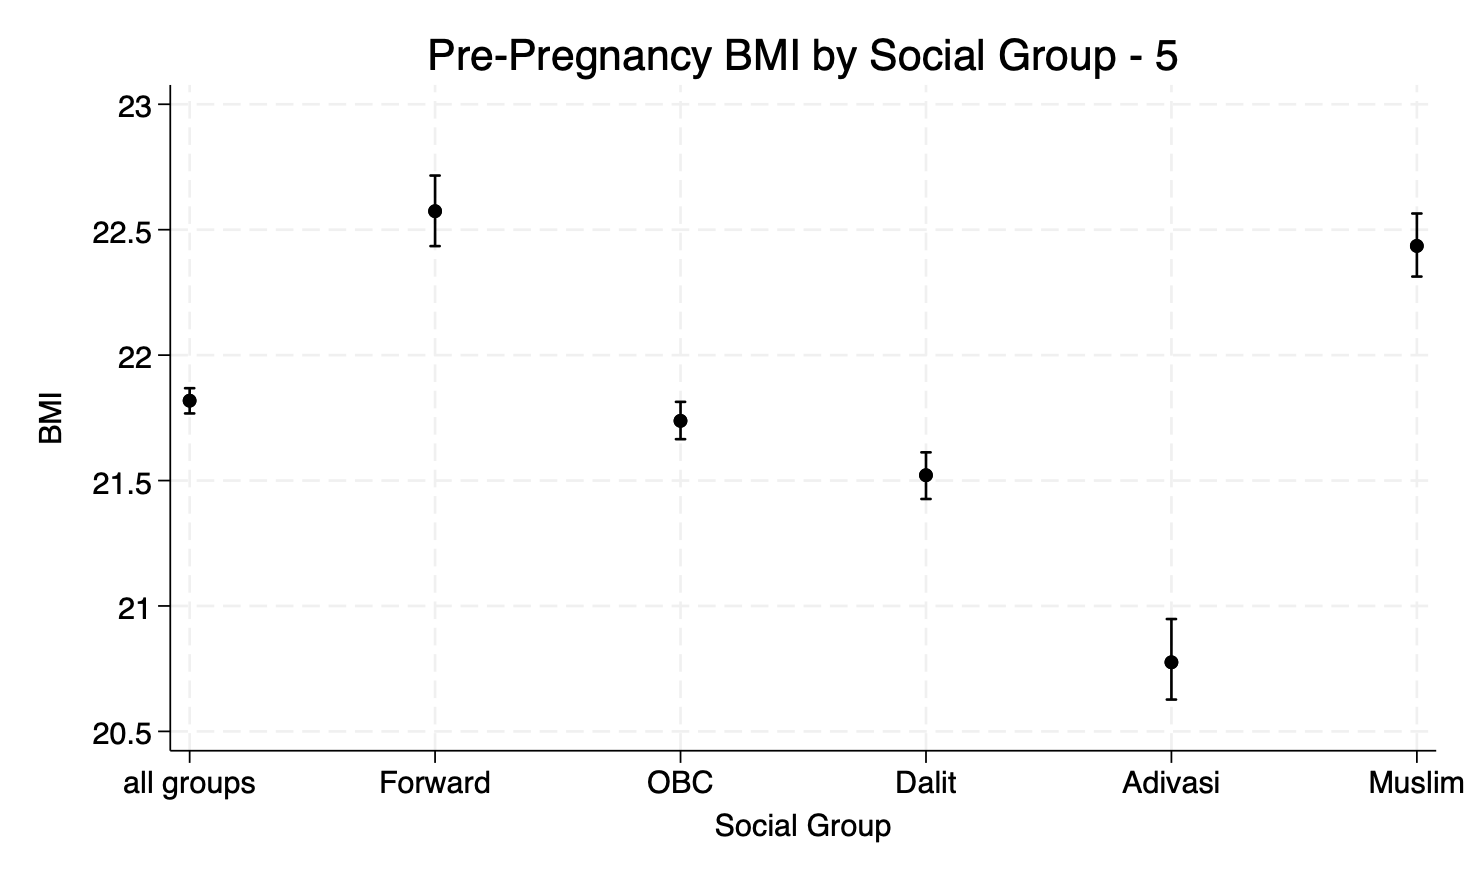
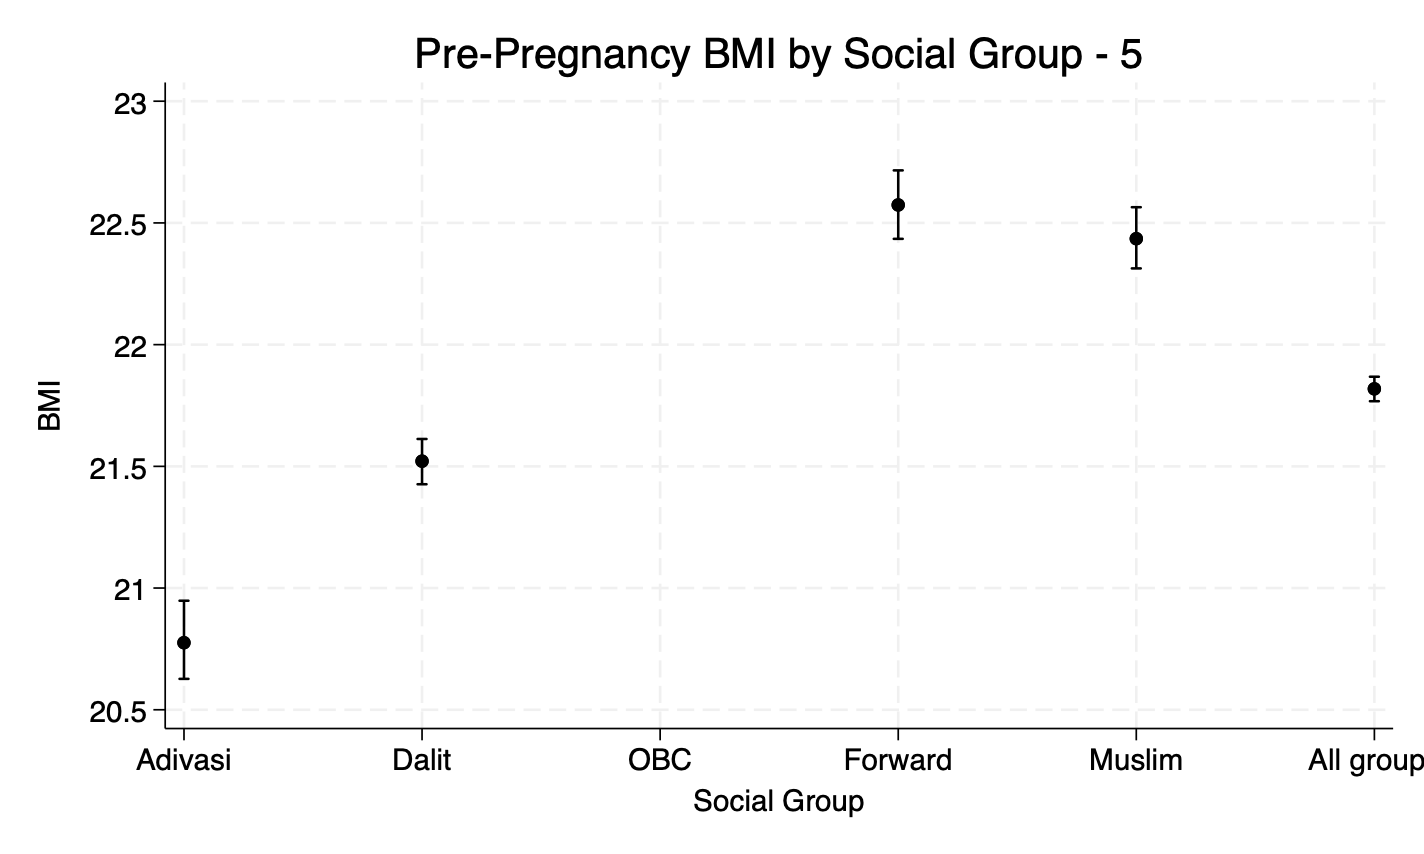
fixed

diff --git a/tables/predictor_regression.tex b/tables/predictor_regression.tex
@@ -6,71 +6,71 @@
 \midrule
 \textbf{Binary predictors of pregnancy and underweight}&                     &                     &                     &                     &                     &                     \\
 \addlinespace
-Uses modern contraception&       -0.08\sym{***}&       -0.07\sym{***}&       -0.06\sym{***}&       -0.08\sym{***}&       -0.05\sym{***}&       -0.07\sym{***}\\
-                    &      (0.00)         &      (0.00)         &      (0.00)         &      (0.00)         &      (0.00)         &      (0.00)         \\
+Uses modern contraception&      -.0752\sym{***}&      -.0727\sym{***}&      -.0641\sym{***}&      -.0782\sym{***}&      -.0512\sym{***}&      -.0671\sym{***}\\
+                    &    (.00308)         &    (.00191)         &    (.00144)         &    (.00259)         &    (.00184)         &   (.000907)         \\
 \addlinespace
-None or incomplete primary education&       -0.01\sym{***}&        0.00         &        0.00\sym{***}&        0.00         &       -0.00         &        0.00\sym{*}  \\
-                    &      (0.00)         &      (0.00)         &      (0.00)         &      (0.00)         &      (0.00)         &      (0.00)         \\
+None or incomplete primary education&     -.00853\sym{***}&      .00111         &      .00363\sym{***}&      .00155         &    -.000858         &      .00157\sym{*}  \\
+                    &    (.00269)         &    (.00178)         &    (.00124)         &    (.00273)         &    (.00166)         &   (.000808)         \\
 \addlinespace
-Rural resident      &        0.01\sym{*}  &        0.01\sym{***}&        0.00\sym{*}  &        0.01\sym{*}  &        0.01\sym{***}&        0.00\sym{***}\\
-                    &      (0.01)         &      (0.00)         &      (0.00)         &      (0.00)         &      (0.00)         &      (0.00)         \\
+Rural resident      &       .0123\sym{*}  &      .00582\sym{***}&      .00299\sym{*}  &       .0056\sym{*}  &      .00721\sym{***}&      .00486\sym{***}\\
+                    &    (.00707)         &    (.00221)         &    (.00157)         &    (.00305)         &    (.00202)         &    (.00101)         \\
 \addlinespace
-Has boy child       &       -0.02\sym{***}&       -0.02\sym{***}&       -0.03\sym{***}&       -0.01\sym{***}&       -0.02\sym{***}&       -0.02\sym{***}\\
-                    &      (0.00)         &      (0.00)         &      (0.00)         &      (0.00)         &      (0.00)         &      (0.00)         \\
+Has boy child       &      -.0219\sym{***}&       -.016\sym{***}&      -.0252\sym{***}&      -.0132\sym{***}&      -.0208\sym{***}&      -.0206\sym{***}\\
+                    &    (.00475)         &    (.00273)         &    (.00206)         &    (.00427)         &    (.00245)         &    (.00128)         \\
 \addlinespace
 \textbf{Age categories}&                     &                     &                     &                     &                     &                     \\
 \addlinespace
-20–24               &       -0.01         &        0.00         &        0.01         &        0.02         &        0.01         &        0.01\sym{*}  \\
-                    &      (0.01)         &      (0.01)         &      (0.01)         &      (0.01)         &      (0.01)         &      (0.00)         \\
+20–24               &      -.0105         &      .00457         &       .0122         &       .0168         &       .0078         &      .00856\sym{*}  \\
+                    &     (.0118)         &    (.00964)         &     (.0079)         &      (.012)         &     (.0133)         &    (.00467)         \\
 \addlinespace
-25–29               &       -0.04\sym{***}&       -0.03\sym{***}&       -0.03\sym{***}&       -0.02\sym{**} &       -0.02\sym{*}  &       -0.03\sym{***}\\
-                    &      (0.01)         &      (0.01)         &      (0.01)         &      (0.01)         &      (0.01)         &      (0.00)         \\
+25–29               &      -.0371\sym{***}&      -.0327\sym{***}&      -.0294\sym{***}&      -.0244\sym{**} &      -.0242\sym{*}  &      -.0297\sym{***}\\
+                    &     (.0119)         &     (.0097)         &    (.00787)         &     (.0119)         &     (.0132)         &    (.00465)         \\
 \addlinespace
-30–34               &       -0.08\sym{***}&       -0.07\sym{***}&       -0.07\sym{***}&       -0.07\sym{***}&       -0.06\sym{***}&       -0.07\sym{***}\\
-                    &      (0.01)         &      (0.01)         &      (0.01)         &      (0.01)         &      (0.01)         &      (0.00)         \\
+30–34               &      -.0769\sym{***}&      -.0696\sym{***}&      -.0706\sym{***}&      -.0748\sym{***}&      -.0626\sym{***}&      -.0709\sym{***}\\
+                    &     (.0118)         &    (.00964)         &    (.00779)         &     (.0118)         &     (.0132)         &    (.00463)         \\
 \addlinespace
 \textbf{Parity \& time since last live birth categories}&                     &                     &                     &                     &                     &                     \\
 \addlinespace
-1 birth, <2y spacing&       -0.09\sym{***}&       -0.08\sym{***}&       -0.10\sym{***}&       -0.15\sym{***}&       -0.11\sym{***}&       -0.10\sym{***}\\
-                    &      (0.01)         &      (0.01)         &      (0.01)         &      (0.01)         &      (0.01)         &      (0.00)         \\
+1 birth, <2y spacing&      -.0919\sym{***}&      -.0769\sym{***}&      -.0986\sym{***}&       -.145\sym{***}&        -.11\sym{***}&       -.101\sym{***}\\
+                    &    (.00935)         &     (.0074)         &    (.00575)         &     (.0103)         &    (.00868)         &    (.00351)         \\
 \addlinespace
-1 birth, 2–3y spacing&        0.01         &       -0.03\sym{***}&       -0.04\sym{***}&       -0.09\sym{***}&       -0.08\sym{***}&       -0.05\sym{***}\\
-                    &      (0.02)         &      (0.01)         &      (0.01)         &      (0.02)         &      (0.01)         &      (0.01)         \\
+1 birth, 2–3y spacing&      .00887         &      -.0339\sym{***}&      -.0407\sym{***}&      -.0866\sym{***}&      -.0793\sym{***}&      -.0483\sym{***}\\
+                    &     (.0161)         &     (.0113)         &    (.00869)         &     (.0151)         &      (.011)         &    (.00516)         \\
 \addlinespace
-1 birth, 3+y spacing&       -0.05\sym{***}&       -0.08\sym{***}&       -0.08\sym{***}&       -0.09\sym{***}&       -0.10\sym{***}&       -0.09\sym{***}\\
-                    &      (0.01)         &      (0.01)         &      (0.01)         &      (0.01)         &      (0.01)         &      (0.00)         \\
+1 birth, 3+y spacing&      -.0524\sym{***}&      -.0843\sym{***}&      -.0847\sym{***}&      -.0898\sym{***}&      -.0982\sym{***}&      -.0852\sym{***}\\
+                    &     (.0114)         &    (.00716)         &    (.00536)         &     (.0107)         &    (.00787)         &    (.00337)         \\
 \addlinespace
-2 births, <2y spacing&       -0.10\sym{***}&       -0.11\sym{***}&       -0.12\sym{***}&       -0.15\sym{***}&       -0.13\sym{***}&       -0.12\sym{***}\\
-                    &      (0.01)         &      (0.01)         &      (0.01)         &      (0.01)         &      (0.01)         &      (0.00)         \\
+2 births, <2y spacing&       -.101\sym{***}&       -.109\sym{***}&       -.123\sym{***}&       -.155\sym{***}&        -.13\sym{***}&       -.122\sym{***}\\
+                    &    (.00904)         &    (.00707)         &    (.00536)         &     (.0101)         &    (.00811)         &    (.00333)         \\
 \addlinespace
-2 births, 2–3y spacing&       -0.06\sym{***}&       -0.08\sym{***}&       -0.10\sym{***}&       -0.10\sym{***}&       -0.11\sym{***}&       -0.09\sym{***}\\
-                    &      (0.01)         &      (0.01)         &      (0.01)         &      (0.01)         &      (0.01)         &      (0.00)         \\
+2 births, 2–3y spacing&      -.0603\sym{***}&      -.0835\sym{***}&      -.0975\sym{***}&       -.095\sym{***}&       -.114\sym{***}&      -.0924\sym{***}\\
+                    &      (.011)         &    (.00874)         &    (.00615)         &     (.0124)         &    (.00898)         &    (.00392)         \\
 \addlinespace
-2 births, 3+y spacing&       -0.07\sym{***}&       -0.10\sym{***}&       -0.10\sym{***}&       -0.11\sym{***}&       -0.11\sym{***}&       -0.10\sym{***}\\
-                    &      (0.01)         &      (0.01)         &      (0.00)         &      (0.01)         &      (0.01)         &      (0.00)         \\
+2 births, 3+y spacing&      -.0704\sym{***}&      -.0953\sym{***}&      -.0991\sym{***}&       -.109\sym{***}&       -.107\sym{***}&      -.0977\sym{***}\\
+                    &     (.0085)         &    (.00649)         &    (.00494)         &    (.00975)         &    (.00753)         &    (.00308)         \\
 \addlinespace
-3+ births, <2y spacing&       -0.08\sym{***}&       -0.10\sym{***}&       -0.11\sym{***}&       -0.11\sym{***}&       -0.11\sym{***}&       -0.10\sym{***}\\
-                    &      (0.01)         &      (0.01)         &      (0.01)         &      (0.01)         &      (0.01)         &      (0.00)         \\
+3+ births, <2y spacing&       -.077\sym{***}&      -.0981\sym{***}&       -.107\sym{***}&       -.114\sym{***}&       -.111\sym{***}&       -.101\sym{***}\\
+                    &    (.00914)         &    (.00723)         &    (.00565)         &      (.011)         &    (.00898)         &    (.00358)         \\
 \addlinespace
-3+ births, 2–3y spacing&       -0.05\sym{***}&       -0.07\sym{***}&       -0.09\sym{***}&       -0.10\sym{***}&       -0.10\sym{***}&       -0.08\sym{***}\\
-                    &      (0.01)         &      (0.01)         &      (0.01)         &      (0.01)         &      (0.01)         &      (0.00)         \\
+3+ births, 2–3y spacing&      -.0529\sym{***}&      -.0731\sym{***}&       -.086\sym{***}&         -.1\sym{***}&      -.0994\sym{***}&      -.0815\sym{***}\\
+                    &    (.00994)         &    (.00817)         &    (.00641)         &     (.0113)         &     (.0101)         &    (.00389)         \\
 \addlinespace
-3+ births, 3+y spacing&       -0.07\sym{***}&       -0.09\sym{***}&       -0.10\sym{***}&       -0.12\sym{***}&       -0.10\sym{***}&       -0.10\sym{***}\\
-                    &      (0.01)         &      (0.01)         &      (0.00)         &      (0.01)         &      (0.01)         &      (0.00)         \\
+3+ births, 3+y spacing&        -.07\sym{***}&      -.0947\sym{***}&      -.0988\sym{***}&       -.121\sym{***}&       -.104\sym{***}&      -.0979\sym{***}\\
+                    &    (.00828)         &    (.00655)         &    (.00491)         &    (.00943)         &    (.00756)         &    (.00308)         \\
 \addlinespace
 \textbf{Wealth categories}&                     &                     &                     &                     &                     &                     \\
 \addlinespace
-2nd quartile        &       -0.00         &       -0.01\sym{***}&       -0.01\sym{***}&       -0.01\sym{**} &       -0.00         &       -0.01\sym{***}\\
-                    &      (0.00)         &      (0.00)         &      (0.00)         &      (0.00)         &      (0.00)         &      (0.00)         \\
+2nd quartile        &     -.00235         &      -.0077\sym{***}&     -.00659\sym{***}&     -.00774\sym{**} &     -.00191         &     -.00566\sym{***}\\
+                    &    (.00262)         &    (.00222)         &     (.0018)         &    (.00391)         &    (.00309)         &    (.00112)         \\
 \addlinespace
-3rd quartile        &        0.00         &       -0.01\sym{**} &       -0.01\sym{***}&       -0.00         &        0.00         &       -0.00\sym{***}\\
-                    &      (0.00)         &      (0.00)         &      (0.00)         &      (0.00)         &      (0.00)         &      (0.00)         \\
+3rd quartile        &      .00293         &     -.00584\sym{**} &     -.00863\sym{***}&     -.00146         &      .00295         &     -.00433\sym{***}\\
+                    &    (.00353)         &    (.00253)         &    (.00183)         &    (.00405)         &    (.00304)         &    (.00117)         \\
 \addlinespace
-4th quartile        &        0.01         &       -0.01\sym{***}&       -0.01\sym{***}&       -0.00         &        0.00         &       -0.00\sym{***}\\
-                    &      (0.01)         &      (0.00)         &      (0.00)         &      (0.00)         &      (0.00)         &      (0.00)         \\
+4th quartile        &      .00669         &     -.00929\sym{***}&     -.00613\sym{***}&     -.00272         &      .00466         &     -.00386\sym{***}\\
+                    &     (.0108)         &     (.0028)         &    (.00214)         &    (.00422)         &    (.00319)         &    (.00132)         \\
 \addlinespace
-Constant            &        0.22\sym{***}&        0.24\sym{***}&        0.25\sym{***}&        0.26\sym{***}&        0.22\sym{***}&        0.24\sym{***}\\
-                    &      (0.01)         &      (0.01)         &      (0.01)         &      (0.01)         &      (0.01)         &      (0.00)         \\
+Constant            &        .223\sym{***}&        .238\sym{***}&        .245\sym{***}&        .264\sym{***}&         .22\sym{***}&         .24\sym{***}\\
+                    &     (.0142)         &       (.01)         &    (.00796)         &     (.0123)         &     (.0136)         &    (.00474)         \\
 \midrule
 Observations        &       91212         &       97955         &      170788         &       56419         &       80708         &      498842         \\
 \bottomrule

diff --git a/tables/sumstats.tex b/tables/sumstats.tex
@@ -2,34 +2,34 @@
 \toprule
 & \multicolumn{6}{c}{Pregnant women (3+ months)} & \multicolumn{6}{c}{Nonpregnant women} \\\\
 \cmidrule(lr){2-7} \cmidrule(lr){8-13}
-Social Group & Adivasi & Dalit & OBC & Muslim & Forward & All five social groups & Adivasi & Dalit & OBC & Muslim & Forward & All five social groups \\\\
+Social Group & Adivasi & Dalit & OBC & Forward & Muslim & All five social groups & Adivasi & Dalit & OBC & Muslim & Forward & All five social groups \\\\
 \midrule
 \textbf{Binary Predictors of Pregnancy and Underweight}&.&.&.&.&.&.&.&.&.&.&.&.\\
-not using modern contraception&0.07 (0.01)&0.06 (0.00)&0.07 (0.00)&0.05 (0.01)&0.08 (0.01)&0.07 (0.00)&0.67 (0.00)&0.67 (0.00)&0.66 (0.00)&0.62 (0.00)&0.58 (0.00)&0.65 (0.00)\\
-no education or incomplete primary&0.12 (0.01)&0.23 (0.01)&0.31 (0.01)&0.36 (0.01)&0.35 (0.01)&0.27 (0.00)&0.25 (0.00)&0.41 (0.00)&0.50 (0.00)&0.58 (0.00)&0.48 (0.00)&0.43 (0.00)\\
-rural resident&0.64 (0.01)&0.76 (0.01)&0.79 (0.01)&0.89 (0.01)&0.65 (0.01)&0.74 (0.00)&0.57 (0.01)&0.71 (0.00)&0.72 (0.00)&0.87 (0.00)&0.59 (0.01)&0.69 (0.00)\\
-does not have boy child&0.23 (0.01)&0.29 (0.01)&0.33 (0.01)&0.34 (0.01)&0.41 (0.01)&0.32 (0.00)&0.75 (0.00)&0.77 (0.00)&0.77 (0.00)&0.76 (0.00)&0.77 (0.00)&0.77 (0.00)\\
+not using modern contraception&0.07 (0.01)&0.06 (0.00)&0.07 (0.00)&0.08 (0.01)&0.05 (0.01)&0.07 (0.00)&0.67 (0.00)&0.67 (0.00)&0.66 (0.00)&0.58 (0.00)&0.62 (0.00)&0.65 (0.00)\\
+no education or incomplete primary&0.12 (0.01)&0.23 (0.01)&0.31 (0.01)&0.35 (0.01)&0.36 (0.01)&0.27 (0.00)&0.25 (0.00)&0.41 (0.00)&0.50 (0.00)&0.48 (0.00)&0.58 (0.00)&0.43 (0.00)\\
+rural resident&0.64 (0.01)&0.76 (0.01)&0.79 (0.01)&0.65 (0.01)&0.89 (0.01)&0.74 (0.00)&0.57 (0.01)&0.71 (0.00)&0.72 (0.00)&0.59 (0.01)&0.87 (0.00)&0.69 (0.00)\\
+does not have boy child&0.23 (0.01)&0.29 (0.01)&0.33 (0.01)&0.41 (0.01)&0.34 (0.01)&0.32 (0.00)&0.75 (0.00)&0.77 (0.00)&0.77 (0.00)&0.77 (0.00)&0.76 (0.00)&0.77 (0.00)\\
 \textbf{Age Categories}&.&.&.&.&.&.&.&.&.&.&.&.\\
-15 to 19&0.10 (0.01)&0.11 (0.00)&0.13 (0.01)&0.14 (0.01)&0.12 (0.01)&0.12 (0.00)&0.02 (0.00)&0.02 (0.00)&0.03 (0.00)&0.03 (0.00)&0.03 (0.00)&0.02 (0.00)\\
+15 to 19&0.10 (0.01)&0.11 (0.00)&0.13 (0.01)&0.12 (0.01)&0.14 (0.01)&0.12 (0.00)&0.02 (0.00)&0.02 (0.00)&0.03 (0.00)&0.03 (0.00)&0.03 (0.00)&0.02 (0.00)\\
 20 to 24&0.39 (0.01)&0.45 (0.01)&0.44 (0.01)&0.40 (0.01)&0.40 (0.01)&0.43 (0.00)&0.10 (0.00)&0.12 (0.00)&0.13 (0.00)&0.14 (0.00)&0.14 (0.00)&0.12 (0.00)\\
-25 to 29&0.35 (0.01)&0.31 (0.01)&0.29 (0.01)&0.30 (0.01)&0.29 (0.01)&0.31 (0.00)&0.18 (0.00)&0.19 (0.00)&0.19 (0.00)&0.20 (0.00)&0.20 (0.00)&0.19 (0.00)\\
-30 to 49&0.16 (0.01)&0.12 (0.00)&0.13 (0.01)&0.16 (0.02)&0.19 (0.01)&0.14 (0.00)&0.71 (0.00)&0.67 (0.00)&0.64 (0.00)&0.63 (0.00)&0.63 (0.00)&0.66 (0.00)\\
+25 to 29&0.35 (0.01)&0.31 (0.01)&0.29 (0.01)&0.29 (0.01)&0.30 (0.01)&0.31 (0.00)&0.18 (0.00)&0.19 (0.00)&0.19 (0.00)&0.20 (0.00)&0.20 (0.00)&0.19 (0.00)\\
+30 to 49&0.16 (0.01)&0.12 (0.00)&0.13 (0.01)&0.19 (0.01)&0.16 (0.02)&0.14 (0.00)&0.71 (0.00)&0.67 (0.00)&0.64 (0.00)&0.63 (0.00)&0.63 (0.00)&0.66 (0.00)\\
 \textbf{Categories for parity and spacing from last birth}&.&.&.&.&.&.&.&.&.&.&.&.\\
-No births&0.49 (0.01)&0.43 (0.01)&0.41 (0.01)&0.39 (0.01)&0.38 (0.01)&0.42 (0.00)&0.07 (0.00)&0.07 (0.00)&0.08 (0.00)&0.08 (0.00)&0.07 (0.00)&0.07 (0.00)\\
-1 birth, \textless{}2y spacing&0.13 (0.01)&0.16 (0.01)&0.16 (0.01)&0.13 (0.01)&0.09 (0.01)&0.14 (0.00)&0.06 (0.00)&0.06 (0.00)&0.06 (0.00)&0.07 (0.00)&0.07 (0.00)&0.06 (0.00)\\
-1 birth, 2–3y spacing&0.07 (0.01)&0.07 (0.00)&0.06 (0.00)&0.07 (0.01)&0.05 (0.00)&0.07 (0.00)&0.02 (0.00)&0.02 (0.00)&0.02 (0.00)&0.02 (0.00)&0.02 (0.00)&0.02 (0.00)\\
-1 birth, \textgreater{}3y spacing&0.17 (0.01)&0.12 (0.00)&0.10 (0.01)&0.12 (0.02)&0.12 (0.01)&0.12 (0.00)&0.15 (0.00)&0.09 (0.00)&0.08 (0.00)&0.08 (0.00)&0.08 (0.00)&0.10 (0.00)\\
-2 births, \textless{}2y spacing&0.04 (0.00)&0.07 (0.00)&0.08 (0.00)&0.06 (0.01)&0.06 (0.00)&0.06 (0.00)&0.05 (0.00)&0.06 (0.00)&0.06 (0.00)&0.06 (0.00)&0.06 (0.00)&0.06 (0.00)\\
-2 births, 2–3y spacing&0.02 (0.00)&0.03 (0.00)&0.03 (0.00)&0.03 (0.00)&0.04 (0.00)&0.03 (0.00)&0.02 (0.00)&0.03 (0.00)&0.03 (0.00)&0.02 (0.00)&0.03 (0.00)&0.03 (0.00)\\
-2 births, \textgreater{}3y spacing&0.04 (0.00)&0.04 (0.00)&0.04 (0.00)&0.07 (0.01)&0.10 (0.01)&0.05 (0.00)&0.36 (0.00)&0.31 (0.00)&0.25 (0.00)&0.23 (0.00)&0.20 (0.00)&0.28 (0.00)\\
-3+ births, \textless{}2y spacing&0.02 (0.00)&0.04 (0.00)&0.06 (0.00)&0.06 (0.01)&0.08 (0.01)&0.05 (0.00)&0.02 (0.00)&0.04 (0.00)&0.05 (0.00)&0.06 (0.00)&0.07 (0.00)&0.04 (0.00)\\
-3+ births, 2–3y spacing&0.01 (0.00)&0.02 (0.00)&0.03 (0.00)&0.03 (0.00)&0.03 (0.00)&0.02 (0.00)&0.01 (0.00)&0.02 (0.00)&0.02 (0.00)&0.02 (0.00)&0.03 (0.00)&0.02 (0.00)\\
-3+ births, \textgreater{}3y spacing&0.02 (0.00)&0.02 (0.00)&0.03 (0.00)&0.03 (0.00)&0.05 (0.01)&0.03 (0.00)&0.23 (0.00)&0.31 (0.00)&0.35 (0.00)&0.36 (0.00)&0.37 (0.00)&0.32 (0.00)\\
+No births&0.49 (0.01)&0.43 (0.01)&0.41 (0.01)&0.38 (0.01)&0.39 (0.01)&0.42 (0.00)&0.07 (0.00)&0.07 (0.00)&0.08 (0.00)&0.07 (0.00)&0.08 (0.00)&0.07 (0.00)\\
+1 birth, \textless{}2y spacing&0.13 (0.01)&0.16 (0.01)&0.16 (0.01)&0.09 (0.01)&0.13 (0.01)&0.14 (0.00)&0.06 (0.00)&0.06 (0.00)&0.06 (0.00)&0.07 (0.00)&0.07 (0.00)&0.06 (0.00)\\
+1 birth, 2–3y spacing&0.07 (0.01)&0.07 (0.00)&0.06 (0.00)&0.05 (0.00)&0.07 (0.01)&0.07 (0.00)&0.02 (0.00)&0.02 (0.00)&0.02 (0.00)&0.02 (0.00)&0.02 (0.00)&0.02 (0.00)\\
+1 birth, \textgreater{}3y spacing&0.17 (0.01)&0.12 (0.00)&0.10 (0.01)&0.12 (0.01)&0.12 (0.02)&0.12 (0.00)&0.15 (0.00)&0.09 (0.00)&0.08 (0.00)&0.08 (0.00)&0.08 (0.00)&0.10 (0.00)\\
+2 births, \textless{}2y spacing&0.04 (0.00)&0.07 (0.00)&0.08 (0.00)&0.06 (0.00)&0.06 (0.01)&0.06 (0.00)&0.05 (0.00)&0.06 (0.00)&0.06 (0.00)&0.06 (0.00)&0.06 (0.00)&0.06 (0.00)\\
+2 births, 2–3y spacing&0.02 (0.00)&0.03 (0.00)&0.03 (0.00)&0.04 (0.00)&0.03 (0.00)&0.03 (0.00)&0.02 (0.00)&0.03 (0.00)&0.03 (0.00)&0.03 (0.00)&0.02 (0.00)&0.03 (0.00)\\
+2 births, \textgreater{}3y spacing&0.04 (0.00)&0.04 (0.00)&0.04 (0.00)&0.10 (0.01)&0.07 (0.01)&0.05 (0.00)&0.36 (0.00)&0.31 (0.00)&0.25 (0.00)&0.20 (0.00)&0.23 (0.00)&0.28 (0.00)\\
+3+ births, \textless{}2y spacing&0.02 (0.00)&0.04 (0.00)&0.06 (0.00)&0.08 (0.01)&0.06 (0.01)&0.05 (0.00)&0.02 (0.00)&0.04 (0.00)&0.05 (0.00)&0.07 (0.00)&0.06 (0.00)&0.04 (0.00)\\
+3+ births, 2–3y spacing&0.01 (0.00)&0.02 (0.00)&0.03 (0.00)&0.03 (0.00)&0.03 (0.00)&0.02 (0.00)&0.01 (0.00)&0.02 (0.00)&0.02 (0.00)&0.03 (0.00)&0.02 (0.00)&0.02 (0.00)\\
+3+ births, \textgreater{}3y spacing&0.02 (0.00)&0.02 (0.00)&0.03 (0.00)&0.05 (0.01)&0.03 (0.00)&0.03 (0.00)&0.23 (0.00)&0.31 (0.00)&0.35 (0.00)&0.37 (0.00)&0.36 (0.00)&0.32 (0.00)\\
 \textbf{Wealth Categories}&.&.&.&.&.&.&.&.&.&.&.&.\\
-1st quartile&0.11 (0.01)&0.22 (0.01)&0.34 (0.01)&0.50 (0.01)&0.26 (0.01)&0.27 (0.00)&0.10 (0.00)&0.18 (0.00)&0.28 (0.00)&0.49 (0.01)&0.22 (0.00)&0.22 (0.00)\\
-2nd quartile&0.17 (0.01)&0.25 (0.01)&0.26 (0.01)&0.25 (0.01)&0.23 (0.01)&0.24 (0.00)&0.17 (0.00)&0.24 (0.00)&0.27 (0.00)&0.26 (0.00)&0.23 (0.00)&0.23 (0.00)\\
-3rd quartile&0.27 (0.01)&0.26 (0.01)&0.24 (0.01)&0.16 (0.01)&0.25 (0.01)&0.25 (0.00)&0.26 (0.00)&0.28 (0.00)&0.25 (0.00)&0.16 (0.00)&0.25 (0.00)&0.26 (0.00)\\
-4th quartile&0.44 (0.01)&0.27 (0.01)&0.16 (0.01)&0.09 (0.02)&0.27 (0.01)&0.25 (0.00)&0.47 (0.00)&0.30 (0.00)&0.20 (0.00)&0.10 (0.00)&0.31 (0.01)&0.29 (0.00)\\
-\textbf{Sample size}&3022&7482&4827&5135&3610&24178&77686&163306&93128&86077&52809&474664\\
+1st quartile&0.11 (0.01)&0.22 (0.01)&0.34 (0.01)&0.26 (0.01)&0.50 (0.01)&0.27 (0.00)&0.10 (0.00)&0.18 (0.00)&0.28 (0.00)&0.22 (0.00)&0.49 (0.01)&0.22 (0.00)\\
+2nd quartile&0.17 (0.01)&0.25 (0.01)&0.26 (0.01)&0.23 (0.01)&0.25 (0.01)&0.24 (0.00)&0.17 (0.00)&0.24 (0.00)&0.27 (0.00)&0.23 (0.00)&0.26 (0.00)&0.23 (0.00)\\
+3rd quartile&0.27 (0.01)&0.26 (0.01)&0.24 (0.01)&0.25 (0.01)&0.16 (0.01)&0.25 (0.00)&0.26 (0.00)&0.28 (0.00)&0.25 (0.00)&0.25 (0.00)&0.16 (0.00)&0.26 (0.00)\\
+4th quartile&0.44 (0.01)&0.27 (0.01)&0.16 (0.01)&0.27 (0.01)&0.09 (0.02)&0.25 (0.00)&0.47 (0.00)&0.30 (0.00)&0.20 (0.00)&0.31 (0.01)&0.10 (0.00)&0.29 (0.00)\\
+\textbf{Sample size}&3022&7482&4827&3610&5135&24178&77686&163306&93128&52809&86077&474664\\
 \bottomrule
 \end{tabular}
